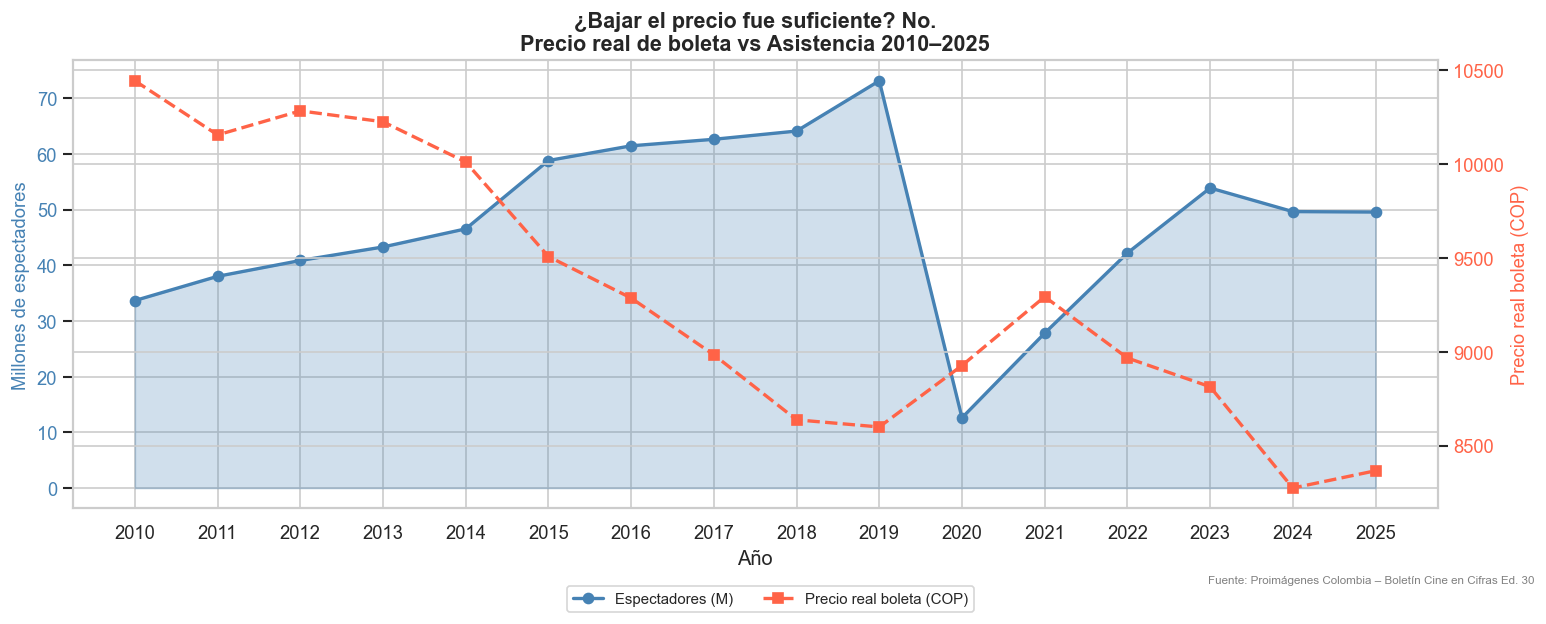
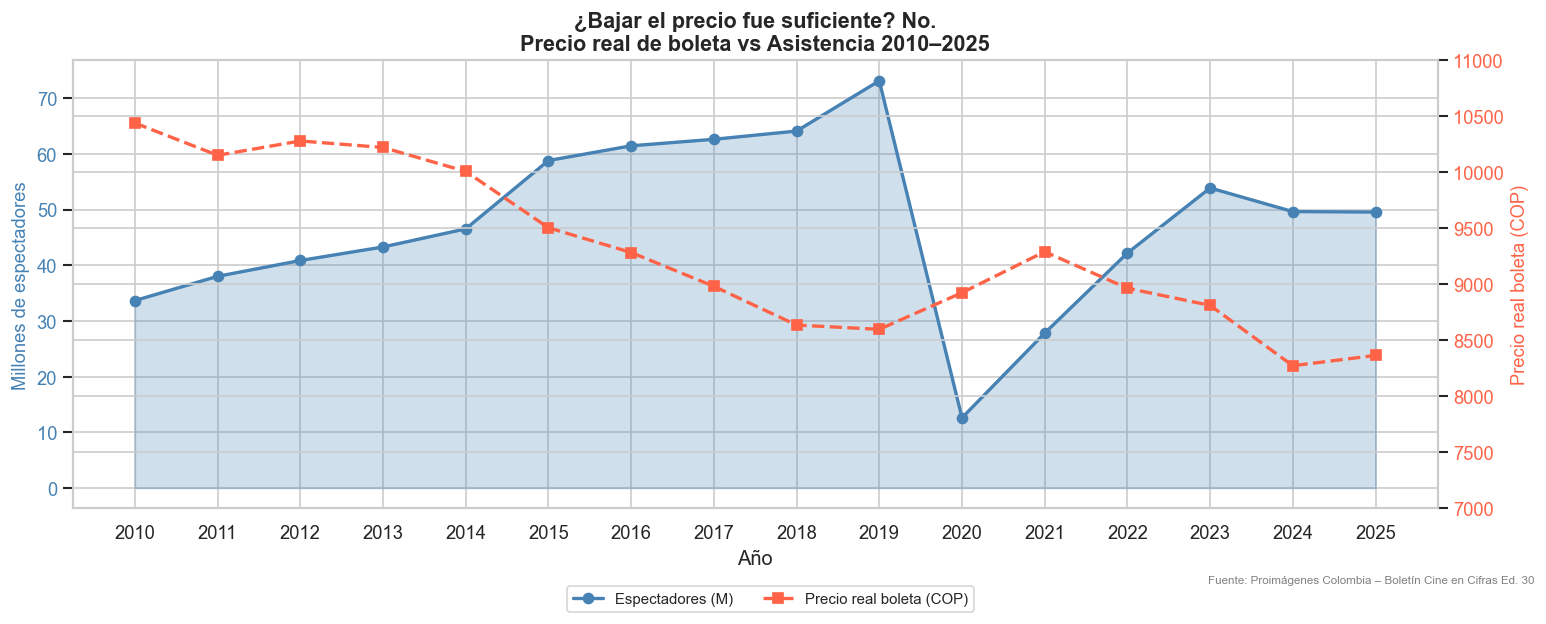
Feat: Rename EDA script for cinema data analysis and update responsibilities in documentation

diff --git a/scripts/EDA_cine_los_andes.py b/scripts/EDA_cine_los_andes.py
@@ -13,14 +13,10 @@ plt.rcParams['figure.dpi'] = 120
 plt.rcParams['font.family'] = 'sans-serif'
 
 def run_eda():
-    csv_path = 'cine_en_cifras_datos.csv'
-    if not os.path.exists(csv_path):
-        print(f"Error: No se encontro el archivo {csv_path}.")
-        return
+    csv_path = os.path.join('data', 'raw', 'cine_en_cifras_datos.csv')
 
     df = pd.read_csv(csv_path)
-    df = df[df['ciudad'] != 'Nacional']  # excluir fila agregada
-
+    df = df[df['ciudad'] != 'Nacional']
     print("Shape:", df.shape)
     print("Columnas:", df.columns.tolist())
     print("\n=== Tipos de datos ===")
@@ -40,7 +36,6 @@ def run_eda():
 
     # ===========================================================
     # GRÁFICO 1 — Tendencia de asistencia nacional
-    # FIX: Anotación "Pandemia COVID-19" con fondo visible
     # ===========================================================
     fig, ax = plt.subplots(figsize=(13, 5))
     colores = []
@@ -61,7 +56,6 @@ def run_eda():
     ax.axhline(val_2025, color='orange', linestyle='--', linewidth=1.2, alpha=0.7,
                label=f'2025: {val_2025:.1f}M ({val_2025/pico_2019*100:.1f}% del pico)')
 
-    # FIX: bbox con fondo blanco para que el texto de "Pandemia" sea legible
     ax.annotate(
         'Pandemia\nCOVID-19',
         xy=(2020, val_2020), xytext=(2021.1, val_2020 + 15),
@@ -95,7 +89,6 @@ def run_eda():
     p3 = mpatches.Patch(color='#FF9800', alpha=0.85, label='Recuperación parcial / Estancamiento')
     ax.legend(handles=[p1, p2, p3], loc='upper left', fontsize=9)
 
-    # Principio 6: fuente del dato
     fig.text(0.99, 0.01, 'Fuente: Proimágenes Colombia – Boletín Cine en Cifras Ed. 30',
              ha='right', fontsize=7, color='gray')
     plt.tight_layout()
@@ -105,7 +98,6 @@ def run_eda():
 
     # ===========================================================
     # GRÁFICO 2 — Precio vs Asistencia
-    # FIX: leyenda reubicada fuera del área de datos (parte inferior)
     # ===========================================================
     fig, ax1 = plt.subplots(figsize=(13, 5))
     ax2 = ax1.twinx()
@@ -121,6 +113,7 @@ def run_eda():
     ax2.set_ylabel('Precio real boleta (COP)', color='tomato', fontsize=11)
     ax1.tick_params(axis='y', labelcolor='steelblue')
     ax2.tick_params(axis='y', labelcolor='tomato')
+    ax2.set_ylim(7000, 11000)
     ax1.set_xlabel('Año')
     ax1.set_title(
         '¿Bajar el precio fue suficiente? No.\n'
@@ -129,7 +122,6 @@ def run_eda():
     )
     ax1.set_xticks(nacional['año'])
 
-    # FIX: leyenda unificada en parte inferior, fuera de la zona de líneas
     fig.legend(handles=[l1, l2], loc='lower center', ncol=2, fontsize=9,
                bbox_to_anchor=(0.5, -0.05), frameon=True)
 
@@ -140,8 +132,7 @@ def run_eda():
     plt.close()
 
     # ===========================================================
-    # GRÁFICO 3 — Estrenos vs Asistencia (sin cambios críticos,
-    # mejora menor: fuente y leyenda igual que G2)
+    # GRÁFICO 3 — Estrenos vs Asistencia
     # ===========================================================
     fig, ax1 = plt.subplots(figsize=(13, 5))
     ax2 = ax1.twinx()
@@ -175,7 +166,6 @@ def run_eda():
 
     # ===========================================================
     # GRÁFICO 4 — Recuperación por Ciudad (2025)
-    # FIX: línea de umbral más visible (color + grosor + etiqueta directa)
     # ===========================================================
     base_2019 = df[df['año'] == 2019].set_index('ciudad')['espectadores_ciudad_M']
     ciudades_2025 = df[df['año'] == 2025].copy()
@@ -197,7 +187,6 @@ def run_eda():
         ax.text(100.5, len(ciudades_2025) - 0.5, 'Nivel 2019\n(100%)',
                 va='top', fontsize=8, color='#1B5E20', fontweight='bold')
 
-        # FIX: umbral con color más oscuro, grosor mayor, etiqueta directa visible
         ax.axvline(75, color='#424242', linestyle=':', linewidth=2.2, alpha=0.9)
         ax.text(75.5, 0.3, 'Umbral piloto\n(75%)',
                 va='bottom', fontsize=8, color='#424242', fontweight='bold',
@@ -228,8 +217,6 @@ def run_eda():
 
     # ===========================================================
     # GRÁFICO 5 — Asistencia por Ciudad (serie histórica)
-    # FIX: Bogotá y Medellín — asegurar que el nombre en el CSV coincide
-    #       usando contains() para tolerancia a tildes/mayúsculas
     # ===========================================================
     fig, ax = plt.subplots(figsize=(13, 6))
 
@@ -243,13 +230,11 @@ def run_eda():
         'Barranquilla': '#C62828'
     }
 
-    # Detectar nombres reales en el DataFrame
     ciudades_en_df = df['ciudad'].unique()
     print("\nCiudades en el CSV:", ciudades_en_df)
 
     graficadas = set()
     for ciudad_real in ciudades_en_df:
-        # Buscar coincidencia en el diccionario de colores (flexible)
         color = None
         for key, c in colores_ciudades.items():
             if key.lower() in ciudad_real.lower() or ciudad_real.lower() in key.lower():
@@ -257,7 +242,6 @@ def run_eda():
                 break
         if color is None:
             continue
-        # Usar nombre normalizado para etiqueta
         label = ciudad_real
         subset = df[df['ciudad'] == ciudad_real]
         if not subset.empty and ciudad_real not in graficadas:
@@ -287,8 +271,41 @@ def run_eda():
     plt.close()
 
     # ===========================================================
-    # GRÁFICO 6 (antes 7) — Cine Colombiano: Producción vs Asistencia
-    # FIX: leyenda de la línea morada (espectadores col) unificada y visible
+    # GRÁFICO 6 — Pantallas vs Asistencia
+    # ===========================================================
+    fig, ax1 = plt.subplots(figsize=(13, 5))
+    ax2 = ax1.twinx()
+
+    ax1.fill_between(nacional['año'], nacional['espectadores_nacional_M'], alpha=0.25, color='steelblue')
+    l1, = ax1.plot(nacional['año'], nacional['espectadores_nacional_M'],
+                   marker='o', color='steelblue', linewidth=2, label='Espectadores (M)')
+    l2, = ax2.plot(nacional['año'], nacional['pantallas'],
+                   marker='s', color='#8E24AA', linewidth=2, linestyle='--',
+                   label='Pantallas')
+
+    ax1.set_ylabel('Millones de espectadores', color='steelblue', fontsize=11)
+    ax2.set_ylabel('Número de pantallas', color='#8E24AA', fontsize=11)
+    ax1.tick_params(axis='y', labelcolor='steelblue')
+    ax2.tick_params(axis='y', labelcolor='#8E24AA')
+    ax1.set_xlabel('Año')
+    ax1.set_title(
+        'La infraestructura empieza a contraerse\n'
+        'Pantallas de exhibición vs Asistencia 2010–2025',
+        fontsize=13, fontweight='bold'
+    )
+    ax1.set_xticks(nacional['año'])
+
+    fig.legend(handles=[l1, l2], loc='lower center', ncol=2, fontsize=9,
+               bbox_to_anchor=(0.5, -0.05), frameon=True)
+
+    fig.text(0.99, 0.01, 'Fuente: Proimágenes Colombia – Boletín Cine en Cifras Ed. 30',
+             ha='right', fontsize=7, color='gray')
+    plt.tight_layout()
+    plt.savefig('img/06_pantallas_vs_asistencia.png', bbox_inches='tight')
+    plt.close()
+
+    # ===========================================================
+    # GRÁFICO 7 — Cine Colombiano: Producción vs Asistencia
     # ===========================================================
     fig, ax1 = plt.subplots(figsize=(13, 6))
     ax2 = ax1.twinx()
@@ -312,7 +329,6 @@ def run_eda():
         fontsize=13, fontweight='bold'
     )
 
-    # FIX: leyenda unificada en parte inferior para que ambas series sean visibles
     p_bar = mpatches.Patch(color='#5C6BC0', alpha=0.4, label='Estrenos colombianos')
     fig.legend(handles=[p_bar, l2], loc='lower center', ncol=2, fontsize=9,
                bbox_to_anchor=(0.5, -0.04), frameon=True)
@@ -324,8 +340,7 @@ def run_eda():
     plt.close()
 
     # ===========================================================
-    # GRÁFICO 7 (antes 8) — Participación de mercado cine colombiano
-    # FIX: anotación "mínimo histórico" con bbox visible, flecha y texto legible
+    # GRÁFICO 8 — Participación de mercado cine colombiano
     # ===========================================================
     fig, ax = plt.subplots(figsize=(13, 5))
     ax.plot(nacional['año'], nacional['participacion_col_pct'],
@@ -333,13 +348,11 @@ def run_eda():
     ax.fill_between(nacional['año'], nacional['participacion_col_pct'],
                     alpha=0.18, color='purple')
 
-    # Etiqueta de valor en cada punto
     for _, row in nacional.iterrows():
         ax.text(row['año'], row['participacion_col_pct'] + 0.15,
                 f"{row['participacion_col_pct']:.1f}%",
                 ha='center', va='bottom', fontsize=7, color='purple')
 
-    # FIX: anotación "mínimo histórico" con fondo blanco y flecha clara
     min_row = nacional.loc[nacional['participacion_col_pct'].idxmin()]
     ax.annotate(
         f"Mínimo histórico\n{min_row['participacion_col_pct']:.1f}% ({int(min_row['año'])})",
@@ -359,7 +372,6 @@ def run_eda():
     )
     ax.set_xticks(nacional['año'])
 
-    # Línea de leyenda morada explícita
     linea_morada = mlines.Line2D([], [], color='purple', marker='D',
                                   linewidth=2, label='Participación cine colombiano (%)')
     ax.legend(handles=[linea_morada], loc='upper left', fontsize=9)
@@ -368,6 +380,62 @@ def run_eda():
              ha='right', fontsize=7, color='gray')
     plt.tight_layout()
     plt.savefig('img/08_participacion_colombiana.png', bbox_inches='tight')
+    plt.close()
+
+    # ===========================================================
+    # GRÁFICO 9 — Paradoja cine colombiano: estrenos vs participación taquilla
+    # ===========================================================
+    fig, ax1 = plt.subplots(figsize=(13, 5))
+    ax2 = ax1.twinx()
+
+    ax1.bar(nacional['año'], nacional['estrenos_col'],
+            alpha=0.4, color='#5C6BC0', label='Estrenos colombianos')
+    l2, = ax2.plot(nacional['año'], nacional['participacion_col_pct'],
+                   marker='o', color='red', linewidth=2, linestyle='--',
+                   label='% participación taquilla')
+
+    # Anotación pico estrenos
+    max_estrenos = nacional.loc[nacional['estrenos_col'].idxmax()]
+    ax1.annotate(
+        f"Pico estrenos\n({int(max_estrenos['estrenos_col'])} en {int(max_estrenos['año'])})",
+        xy=(max_estrenos['año'], max_estrenos['estrenos_col']),
+        xytext=(max_estrenos['año'] - 2, max_estrenos['estrenos_col'] + 5),
+        arrowprops=dict(arrowstyle='->', color='#5C6BC0', lw=1.5),
+        fontsize=8, color='#5C6BC0', fontweight='bold'
+    )
+
+    # Anotación mínimo histórico participación
+    min_part = nacional.loc[nacional['participacion_col_pct'].idxmin()]
+    ax2.annotate(
+        f"Mínimo histórico\n({min_part['participacion_col_pct']:.1f}% en {int(min_part['año'])})",
+        xy=(min_part['año'], min_part['participacion_col_pct']),
+        xytext=(min_part['año'] - 2, min_part['participacion_col_pct'] + 1.5),
+        arrowprops=dict(arrowstyle='->', color='red', lw=1.5),
+        fontsize=8, color='red', fontweight='bold',
+        bbox=dict(boxstyle='round,pad=0.2', fc='white', ec='red', alpha=0.85)
+    )
+
+    ax1.set_ylabel('Número de estrenos colombianos', color='#5C6BC0', fontsize=11)
+    ax2.set_ylabel('% participación en taquilla nacional', color='red', fontsize=11)
+    ax1.tick_params(axis='y', labelcolor='#5C6BC0')
+    ax2.tick_params(axis='y', labelcolor='red')
+    ax1.set_xlabel('Año')
+    ax1.set_xticks(nacional['año'])
+    ax1.tick_params(axis='x', rotation=45)
+    ax1.set_title(
+        'La paradoja del cine colombiano: más estrenos, menos público\n'
+        'Estrenos colombianos vs % participación en taquilla 2010–2025',
+        fontsize=13, fontweight='bold'
+    )
+
+    p_bar = mpatches.Patch(color='#5C6BC0', alpha=0.4, label='Estrenos colombianos')
+    fig.legend(handles=[p_bar, l2], loc='lower center', ncol=2, fontsize=9,
+               bbox_to_anchor=(0.5, -0.04), frameon=True)
+
+    fig.text(0.99, 0.01, 'Fuente: Proimágenes Colombia – Boletín Cine en Cifras Ed. 30',
+             ha='right', fontsize=7, color='gray')
+    plt.tight_layout()
+    plt.savefig('img/09_paradoja_colombiano.png', bbox_inches='tight')
     plt.close()
 
     print("\n=== Análisis de Cine Colombiano ===")

diff --git a/documentacion/Segunda entrega parcial/gobierno_de_datos.md b/documentacion/Segunda entrega parcial/gobierno_de_datos.md
@@ -111,7 +111,7 @@ Es el rol que asegura que los datos sean correctos, consistentes y útiles.
 ### 📌 Responsabilidades
 
 * ✅ Ejecutar segmentación de clientes.
-* ✅ Realizar análisis históricos mediante notebooks EDA.
+* ✅ Realizar análisis históricos mediante scripts EDA.
 * ✅ Detectar tendencias de consumo.
 * ✅ Generar dashboards e insights estratégicos.
 * ✅ Documentar transformaciones y trazabilidad.
